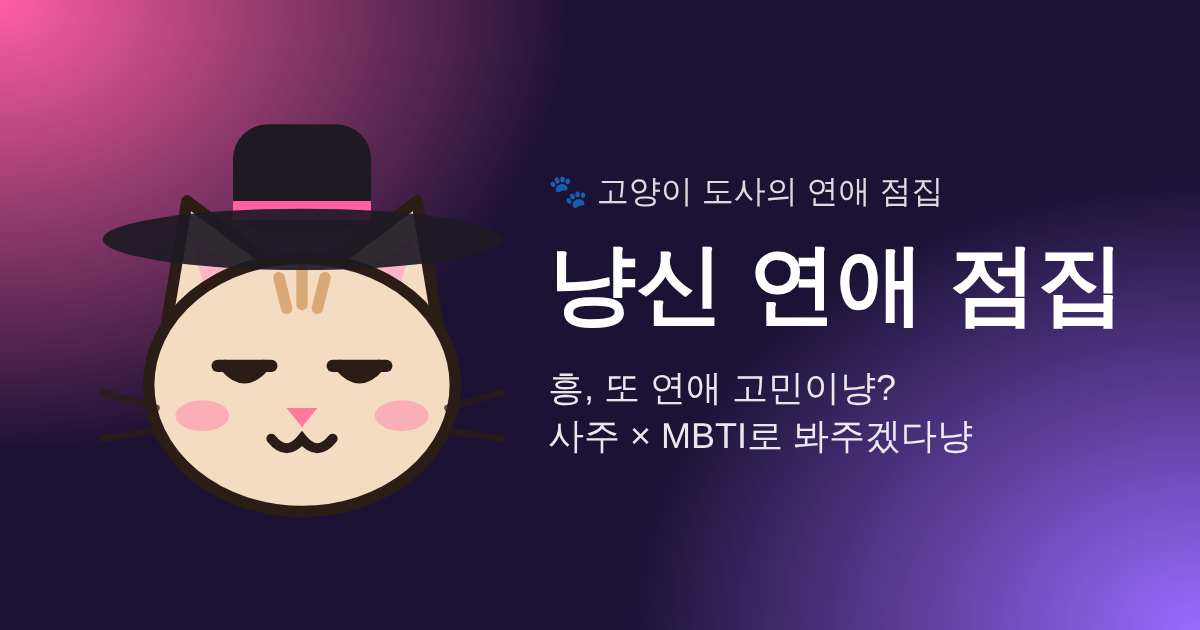
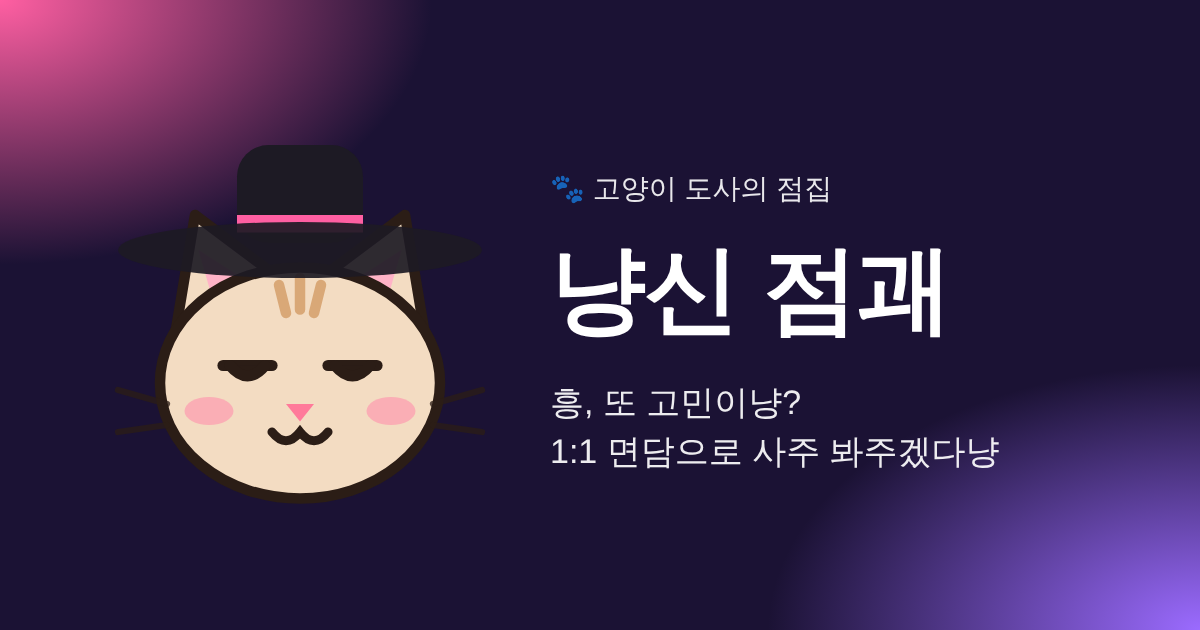
Rename the site to 냥신 점괘 in titles, previews and the OG image
Claude-Session: https://claude.ai/code/session_01DNZtuKjzvbe6GHbHQ3kioG

diff --git a/src/app/layout.tsx b/src/app/layout.tsx
@@ -3,11 +3,11 @@ import "./globals.css";
 
 export const metadata: Metadata = {
   metadataBase: new URL(process.env.NEXT_PUBLIC_SITE_URL ?? "http://localhost:3000"),
-  title: "냥신 연애 점집 | 고양이 도사가 봐주는 사주 × MBTI 연애 점괘",
-  description: "나의 연애 폭탄 유형과 찰떡 궁합 진단. 솔로는 나와 맞는 사람을, 커플은 그 사람의 속마음까지. 사주 × MBTI × 연애 심리",
+  title: "냥신 점괘 | 고양이 도사의 사주 · 궁합 · 연애 점괘",
+  description: "고양이 도사 냥신과 1:1 면담으로 보는 사주 점괘. 내 연애 팔자와 찰떡 궁합, 그 사람 속마음, 이번 달 운세까지. 사주 × MBTI × 심리",
   openGraph: {
-    title: "냥신 연애 점집 🐾",
-    description: "흥, 또 연애 고민이냥? 고양이 도사 냥신이 봐주는 연애 유형 & 찰떡 궁합",
+    title: "냥신 점괘 🐾",
+    description: "흥, 또 고민이냥? 고양이 도사 냥신이 1:1 면담으로 봐주는 사주 점괘",
     images: ["/og.png"],
     locale: "ko_KR",
     type: "website",

diff --git a/src/components/Landing.tsx b/src/components/Landing.tsx
@@ -43,7 +43,7 @@ export function Landing() {
       )}
       <div className="fade-up text-center">
         <span className="inline-block rounded-full border border-pink/30 bg-pink/10 px-3 py-1 text-xs font-semibold text-pink">
-          🐾 고양이 도사의 연애 점집
+          🐾 고양이 도사의 점집 · 냥신 점괘
         </span>
         <div className="float mx-auto mt-6 w-fit">
           <Nyang mood="smug" size={150} />

diff --git a/src/components/ShareUnlockPanel.tsx b/src/components/ShareUnlockPanel.tsx
@@ -16,7 +16,7 @@ interface Props {
 export function ShareUnlockPanel({ input, unlockTitle, onUnlocked, toast }: Props) {
   const share = async () => {
     const outcome = await shareService.shareLink({
-      title: "냥신 연애 점집 🐾",
+      title: "냥신 점괘 🐾",
       description: "고양이 도사 냥신이 사주로 연애 봐주는데 소름 돋게 잘 맞아 😳 너도 해 봐!",
       url: siteUrl(),
     });
